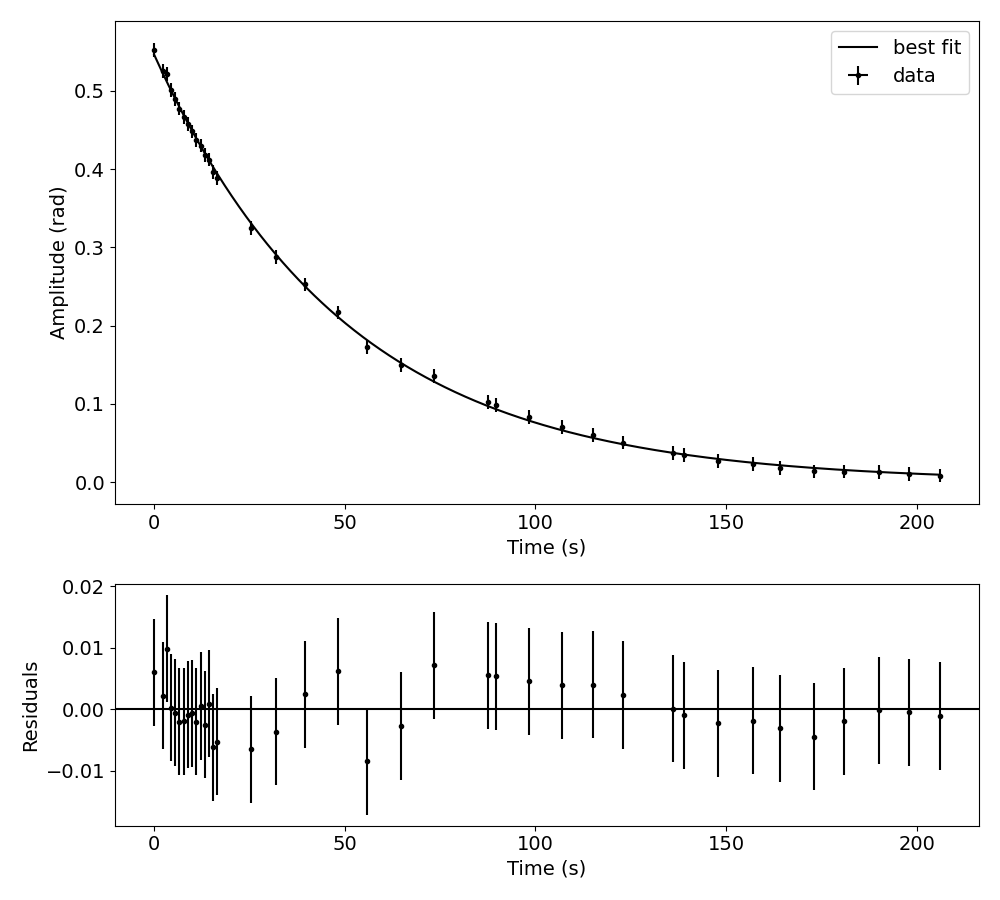
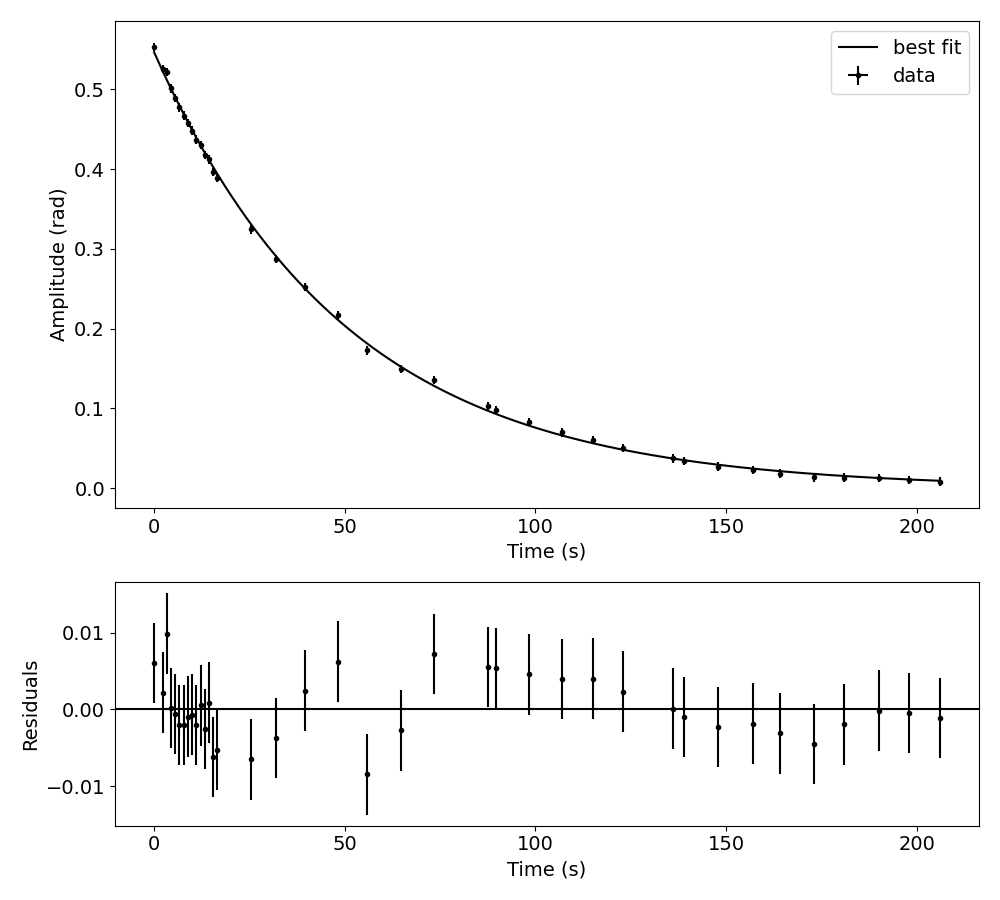
progresz.

diff --git a/report.tex b/report.tex
@@ -1,7 +1,9 @@
 \documentclass[12pt]{article}
 \usepackage{graphicx}
+\usepackage{wrapfig}
+\usepackage{subcaption}
 \usepackage{float}
-%\usepackage{wrapfig}
+\usepackage{amsmath}
 \setlength{\textwidth}{6.5in}
 \setlength{\textheight}{9.9in}
 \setlength{\oddsidemargin}{0.0in}
@@ -13,6 +15,8 @@
 \pagestyle{empty}
 
 \newcommand{\e}{\mathrm{e}}
+
+
 
 \begin{document}
 \begin{center}
@@ -32,21 +36,34 @@ The rest of your introduction should include an overview of what you did at a hi
 Before you write any paper ever, you need to understand who your target audience is. For this paper, pretend your target audience is a high school physics student. Obviously, your real target audience is the grader, but they will be grading your paper as if they were a high school physics student. This is important as it sets what assumptions you can make about what is common knowledge and what should be assumed to be new to the reader.
 
 \section{Methods and Procedures}
-The string was tied around a screw, which was inserted into the mass (tennis ball).
-Two wooden boards clamped the string near their ends, using friction to fix the pendulum's centre of rotation. 
-The boards jutted off the edge of a table, allowing the pendulum to swing freely.
-A tripod supported the camera (a phone) from a distance, capturing slow-motion footage.
+The string was tied around a screw, which was inserted into the mass (tennis ball). Two stacks of books stabilized two boards which jutted off the table and clamped the string, fixing the centre of rotation. A tripod supported the camera (a phone) from a distance, capturing slow-motion footage.
 
-\subsection{Angle vs. Period}
-The period was measured using slow-motion footage (120 FPS) and 3 oscillations per trial to 
-reduce type B uncertainty. A protractor taped to the end of the boards measured initial amplitudes.
-When dropping the mass, it was also ensured from the side that the pendulum 
+\subsection{Period vs. Initial Amplitude}
 
-This is where you discuss any important details about what you did and how you did it, including justifications for any choices you made. Did you use nylon fishing line for the pendulum because it doesn't stretch much? Great, describe that briefly here. Anything that you did specifically to reduce your uncertainties is very valuable information to include here! 
 
-The goal is that if the target audience reads {\bf only this paper} and nothing else (especially not the instructions file you got) they should nonetheless be able to reproduce your experiment and get similar results. Your target audience (high school physics students) presumably knows how to measure lengths and times, so don't include detailed notes on how to use a ruler. That is irrelevant. But if you did something to prevent your pendulum from oscillating in elliptical (3d) motion, rather than planar (2D) motion, that would be useful to document.
 
-You can, and in some cases should, allude to future results in this section if they affect choices you made. For example, if you decide to always release your pendulum from an angle of 10 degrees after doing the Period vs. Angle part of the experiment, describe that here even though you have not presented those results yet.
+The period was measured with 3 oscillations per trial to reduce type B uncertainty using frame-by-frame analysis of the footage in the Open Source Physics (OSP) Tracker. A protractor taped to the end of the boards measured initial amplitudes ($\pm \pi/2$). When dropping the mass, it was ensured from another angle that the pendulum would swing on a plane perpendicular to the protractor. The string was clamped close to the protractor to prevent parallax in readings. See Figure~\ref{fig:setup1}.
+
+\begin{figure}[h]
+    \centering
+    \begin{minipage}[t]{0.45\textwidth}
+        \centering
+        \includegraphics[height=0.2\textheight]{input-files/setup1.jpg}
+        \caption{Setup for Period vs. Initial Amplitude experiment}
+        \label{fig:setup1}
+    \end{minipage}
+    \hfill
+    \begin{minipage}[t]{0.45\textwidth}
+        \centering
+        \includegraphics[height=0.2\textheight]{input-files/setup2.jpg}
+        \caption{Setup for Amplitude vs. Time}
+        \label{fig:setup2}
+    \end{minipage}
+
+\end{figure}
+
+\subsection{Measuring Q Factor}
+As the pendulum could drift off plane with many oscillations, the mass was now hung from two strings of equal length to prevent motion normal to the desired plane. See Figure~\ref{fig:setup2}. The lens of the phone camera was normal to said plane and level with the centre of rotation to reduce parallax error, since max amplitude per oscillation was now measured using OSP Tracker (manual tracking). 
 
 \section{Results and Data Analysis}
 
@@ -56,7 +73,7 @@ This section is about presenting your raw data, interpreting it properly for the
 
 \begin{figure}[h!]
 \begin{centering}
-\includegraphics[width=0.6 \textwidth]{graph.png}
+% \includegraphics[width=0.6 \textwidth]{graph.png}
 \label{fig:FallingRock}
 \caption{Time series data of the height of a rock falling near the surface of an asteroid. Best fit line is a quadratic corresponding to an acceleration of $1.4 \pm 0.2~ \mathrm{m/s^2}$. Note how the title is not simply `Height-Time graph', which is information already present. If your errorbars are too small to be seen, specificaly state that in this caption. You should aim for your captions to explain a lot. Ideally, if a reader only reads your first paragraph of your introduction plus the captions of your graph they should understand about half of your paper!}
 \end{centering}
@@ -76,6 +93,8 @@ Repeat all your judgment calls. Is period independent of angle? Does the amplitu
 You should also discuss what the largest uncertainty sources were, and mention how they could be decreased `in the future'. 
 
 \appendix
+
+% TODO: CITE OSP TRACKER
 
 \section{Notes on TeX}
 

diff --git a/yippee.py b/yippee.py
@@ -54,7 +54,7 @@ def load_period_vs_amplitude(filename):
 def load_exponential_amplitude(filename):
     times, amplitudes = np.genfromtxt(filename, usecols=(0,1), skip_header=1, unpack = True, delimiter = ',')
     time_error = np.array([1/120] * len(times))
-    amplitude_error = np.array([np.deg2rad(0.5)] * len(amplitudes))
+    amplitude_error = np.array([np.deg2rad(0.3)] * len(amplitudes))
     return times, amplitudes, time_error, amplitude_error
 
 def plot_fit(my_func, xdata, ydata, xerror=None, yerror=None, init_guess=None, font_size=14,
@@ -72,10 +72,6 @@ def plot_fit(my_func, xdata, ydata, xerror=None, yerror=None, init_guess=None, f
 
     puncert = np.sqrt(np.diagonal(pcov))
     # The uncertainties are the square roots of the diagonal of the covariance matrix
-    
-    print("Best fit parameters, with uncertainties, but not rounded off properly:")
-    for i in range(len(popt)):
-        print(popt[i], "+/-", puncert[i])
     
     start = min(xdata)
     stop = max(xdata)    
@@ -127,10 +123,13 @@ def plot_fit(my_func, xdata, ydata, xerror=None, yerror=None, init_guess=None, f
     # Does a decent cropping job of the two figures.
     
     output_dir = Path(__file__).parent / "output-files"
-
-    fig.savefig(output_dir / output_filename)
     
-    plt.show()
+    with open(output_dir / (output_filename + ".txt"), 'w') as f:
+        f.write("Best fit parameters, with uncertainties, but not rounded off properly:\n")
+        for i in range(len(popt)):
+            f.write(f"{popt[i]} +/- {puncert[i]}\n")
+    
+    fig.savefig(output_dir / (output_filename + ".png"))
     # Show the graph on your screen.
 
     
@@ -153,8 +152,8 @@ if __name__ == '__main__':
              *load_period_vs_amplitude(input_dir / "PHY180 Pendulum - Sheet2.csv"),
              xlabel="Initial Amplitude (rad)",
              ylabel="Period (s)",
-             output_filename = "period vs amplitude.png")
+             output_filename = "period vs amplitude")
     plot_fit(exponential, *load_exponential_amplitude(input_dir / "PHY180 Pendulum - Sheet4.csv"),
              xlabel="Time (s)",
              ylabel="Amplitude (rad)",
-             output_filename = "amplitude vs. time.png")
+             output_filename = "amplitude vs. time")
